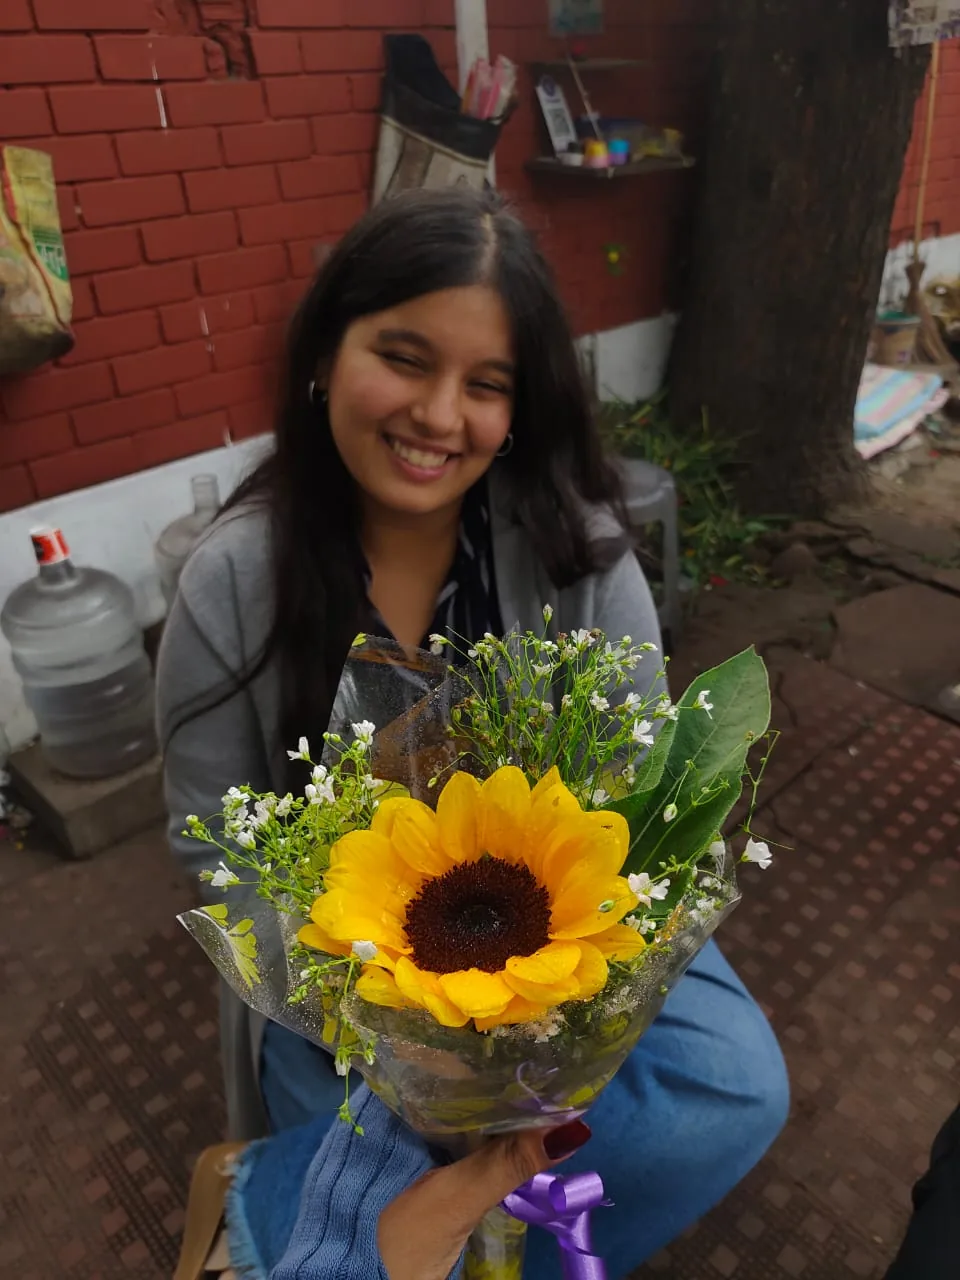
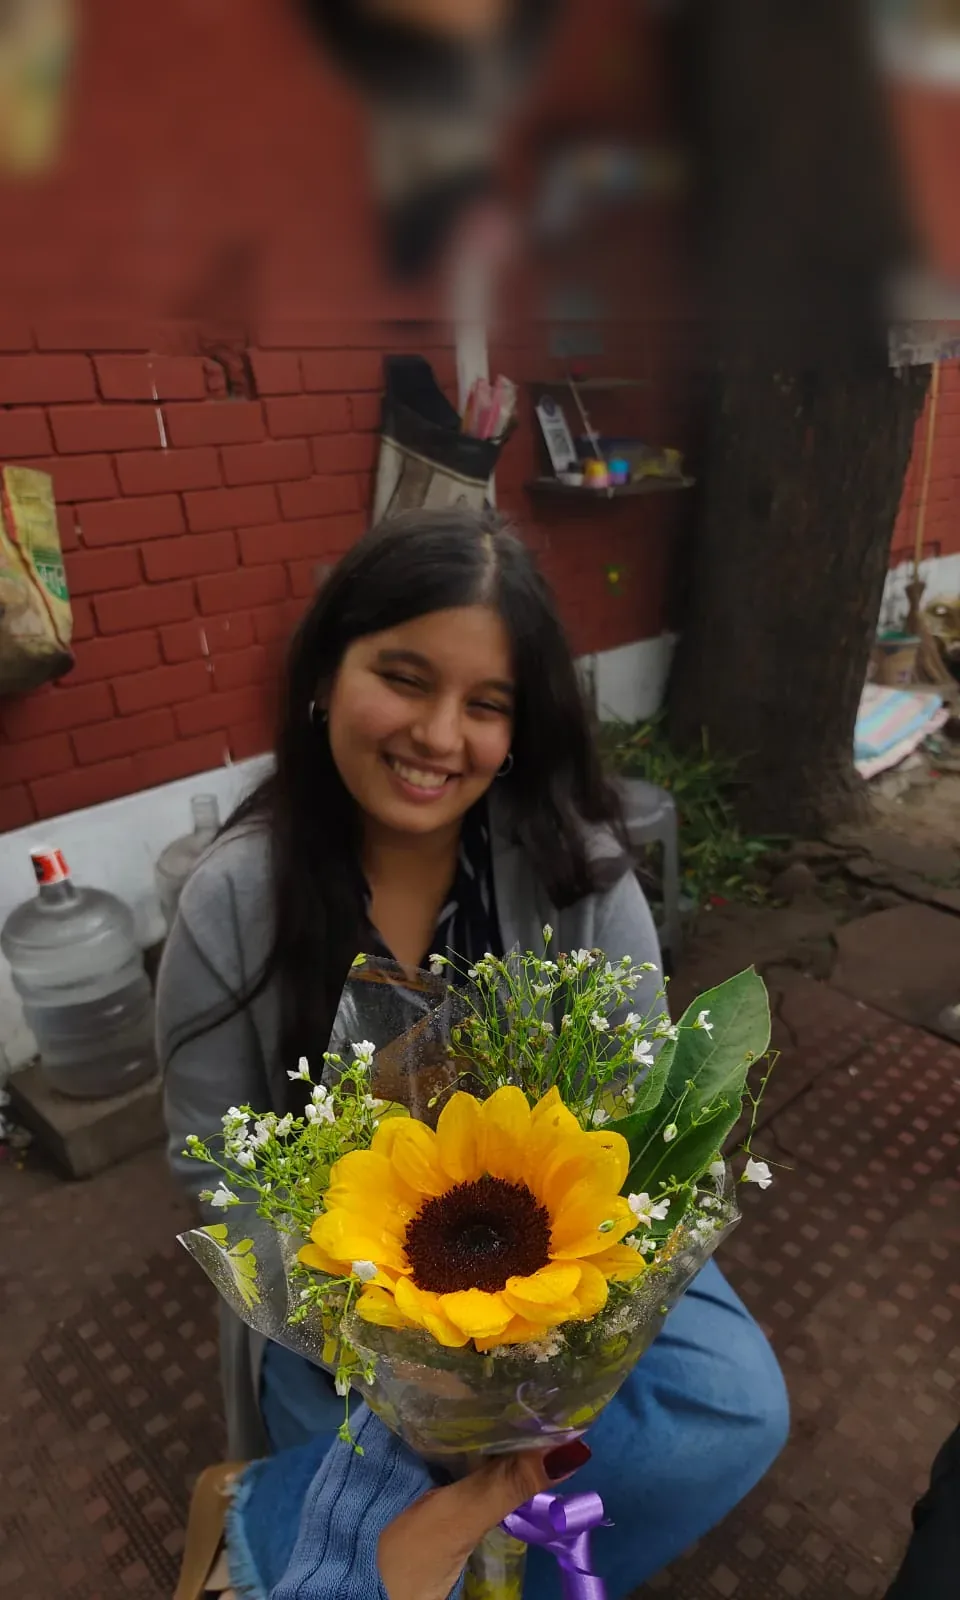
Frame each footer photo per face and add film grain over the photos
Moves every footer photo into one config with its own object-position
(and optional tight crop), reframed so the face stays fully visible below
the punch strip from 1280x600 to 2560x1440. The sunflower photo gains a
softened top band so punched holes never reveal the backdrop. Adds a
static overlay grain on the photos (--noise-photo-opacity), under the
strip, chips and labels, and moves the shared grain texture to a common
folder.

diff --git a/src/components/footer/PunchArea.tsx b/src/components/footer/PunchArea.tsx
@@ -1,29 +1,13 @@
 import { useCallback, useEffect, useLayoutEffect, useRef, useState, type CSSProperties } from 'react';
 import { useMediaQuery } from '../../lib/useMediaQuery';
 import SweepButton from '../chrome/SweepButton';
-import homePhoto from '../../assets/images/footer/me.webp';
-import homePhotoTight from '../../assets/images/footer/me-tight.webp';
+import { FOOTER_PHOTOS, type FooterPhoto } from '../../data/footerPhotos';
 import { PUNCH_SHAPES, PUNCH_SIZE, shapeCursor, shapeScale, shapeViewBox, type PunchShape } from './punchShapes';
 import styles from './PunchArea.module.css';
 
-const PHOTO_WIDTH = 843;
-const PHOTO_HEIGHT = 1124;
-// Head-and-shoulders 3:2 crop of the same photo, for short or very wide
-// desktop screens where the full portrait would push the subject to the
-// edges. Must match the tight-crop media query in PunchArea.module.css.
-const PHOTO_TIGHT_WIDTH = 843;
-const PHOTO_TIGHT_HEIGHT = 562;
+// Short or very wide desktop screens, where a photo's optional tight crop
+// takes over. Must match the tight-crop media query in PunchArea.module.css.
 const PHOTO_TIGHT_MEDIA = '(min-width: 1025px) and (max-height: 760px), (min-width: 1025px) and (min-aspect-ratio: 2/1)';
-
-/* A page's own footer photo, in place of Home's art-directed one. */
-export interface FooterPhoto {
-  src: string;
-  width: number;
-  height: number;
-  alt: string;
-  /* Which part of the photo stays in frame when it's cropped. */
-  align: 'center' | 'bottom';
-}
 
 // Gravity: fall time grows with the square root of the drop distance,
 // clamped so short drops still read as a fall.
@@ -132,9 +116,14 @@ function ChipView({ chip, reducedMotion }: { chip: Chip; reducedMotion: boolean 
 /* Right half of the footer: a black sheet over the photo that visitors
    punch holes in. Each punch drops a brand-colour chip of the same shape onto the
    photo. `keysActive` (when given) decides when ← / → change the shape;
-   otherwise that follows whether the footer is on screen. Without `photo`
-   it shows Home's photo. */
-export default function PunchArea({ keysActive, photo }: { keysActive?: boolean; photo?: FooterPhoto }) {
+   otherwise that follows whether the footer is on screen. */
+export default function PunchArea({
+  keysActive,
+  photo = FOOTER_PHOTOS.home,
+}: {
+  keysActive?: boolean;
+  photo?: FooterPhoto;
+}) {
   const canHover = useMediaQuery(HOVER_QUERY);
   const reducedMotion = useMediaQuery(REDUCED_MOTION_QUERY);
   const rootRef = useRef<HTMLDivElement>(null);
@@ -284,9 +273,23 @@ export default function PunchArea({ keysActive, photo }: { keysActive?: boolean;
 
   return (
     <div ref={rootRef} className={styles.area}>
-      {photo ? (
+      <picture>
+        {photo.tight && (
+          <source
+            media={PHOTO_TIGHT_MEDIA}
+            srcSet={photo.tight.src}
+            width={photo.tight.width}
+            height={photo.tight.height}
+          />
+        )}
         <img
-          className={`${styles.photo} ${photo.align === 'bottom' ? styles.photoBottom : styles.photoCenter}`}
+          className={styles.photo}
+          style={
+            {
+              '--photo-position': photo.position,
+              '--photo-position-tight': photo.tight?.position ?? photo.position,
+            } as CSSProperties
+          }
           src={photo.src}
           alt={photo.alt}
           width={photo.width}
@@ -294,25 +297,9 @@ export default function PunchArea({ keysActive, photo }: { keysActive?: boolean;
           loading="lazy"
           decoding="async"
         />
-      ) : (
-        <picture>
-          <source
-            media={PHOTO_TIGHT_MEDIA}
-            srcSet={homePhotoTight}
-            width={PHOTO_TIGHT_WIDTH}
-            height={PHOTO_TIGHT_HEIGHT}
-          />
-          <img
-            className={styles.photo}
-            src={homePhoto}
-            alt="Sehaz Nagpal"
-            width={PHOTO_WIDTH}
-            height={PHOTO_HEIGHT}
-            loading="lazy"
-            decoding="async"
-          />
-        </picture>
-      )}
+      </picture>
+      {/* Film grain on the photo itself, so punched holes show it too */}
+      <span className={styles.photoGrain} aria-hidden="true" />
 
       <canvas
         ref={canvasRef}

diff --git a/src/data/footerPhotos.ts b/src/data/footerPhotos.ts
@@ -1,29 +1,56 @@
-import type { FooterPhoto } from '../components/footer/PunchArea';
+import me from '../assets/images/footer/me.webp';
+import meTight from '../assets/images/footer/me-tight.webp';
 import sunflower from '../assets/images/footer/sunflower.webp';
 import table from '../assets/images/footer/table.webp';
 import lawn from '../assets/images/footer/lawn.webp';
 
-/* Each case study's footer photo (Home keeps its own). */
+export interface FooterPhoto {
+  src: string;
+  width: number;
+  height: number;
+  alt: string;
+  /* object-position. The top of the photo sits under the punch strip, so
+     each is set to keep the face fully visible below the strip, with a
+     little headroom, at every desktop size (checked 1280x600 to 2560x1440);
+     backgrounds are cropped first. */
+  position: string;
+  /* Optional art-directed crop for short or very wide desktop screens
+     (PHOTO_TIGHT_MEDIA in PunchArea), with its own framing. */
+  tight?: { src: string; width: number; height: number; position: string };
+}
+
+/* Every footer photo: Home's, and one per case study. */
 export const FOOTER_PHOTOS = {
+  home: {
+    src: me,
+    width: 843,
+    height: 1124,
+    alt: 'Sehaz Nagpal',
+    position: '65% 10%',
+    tight: { src: meTight, width: 843, height: 562, position: '55% 30%' },
+  },
+  /* The face sits very high in this photo, so the file carries a softened,
+     mirrored band of the wall above it (top 320px). That band only ever
+     shows through holes punched in the strip, never at rest. */
   drCuterus: {
     src: sunflower,
     width: 960,
-    height: 1280,
+    height: 1600,
     alt: 'Sehaz Nagpal smiling, holding a sunflower bouquet',
-    align: 'center',
+    position: 'center 19%',
   },
   fraud: {
     src: table,
     width: 912,
     height: 2000,
     alt: 'Sehaz Nagpal smiling at a café table',
-    align: 'center',
+    position: 'center 28%',
   },
   moolroop: {
     src: lawn,
     width: 960,
     height: 1280,
     alt: 'Sehaz Nagpal on a campus lawn under a large tree',
-    align: 'bottom',
+    position: 'center bottom',
   },
 } satisfies Record<string, FooterPhoto>;

diff --git a/src/components/footer/PunchArea.module.css b/src/components/footer/PunchArea.module.css
@@ -11,13 +11,27 @@
   background: var(--case-study-white);
 }
 
+/* Framing per photo (FooterPhoto.position, set inline as --photo-position) */
 .photo {
   position: absolute;
   inset: 0;
   width: 100%;
   height: 100%;
   object-fit: cover;
-  object-position: center top;
+  object-position: var(--photo-position);
+}
+
+/* Film grain over the photo, under the strip, chips and labels. Static and
+   click-through; reuses the shared grain texture. */
+.photoGrain {
+  position: absolute;
+  inset: 0;
+  background: url('../../assets/images/grain.png') repeat;
+  /* 128 texels in 64px: one texel per device pixel on 2x screens */
+  background-size: 64px 64px;
+  mix-blend-mode: overlay;
+  opacity: var(--noise-photo-opacity);
+  pointer-events: none;
 }
 
 /* The sheet itself, painted by PunchArea.tsx in --case-study-black. It bleeds
@@ -153,20 +167,13 @@
     border: none;
     background: var(--case-study-black);
   }
-
-  /* Focal point on head and shoulders (about 30-60% down the photo), kept
-     just under the strip at every desktop size; the trees above go first. */
-  .photo {
-    object-position: 65% 10%;
-  }
 }
 
-/* Tight head-and-shoulders crop (PHOTO_TIGHT_MEDIA in PunchArea.tsx): the
-   head sits about 30% down the crop, just under the strip, in the
-   upper-middle of the visible photo. */
+/* Short or very wide desktop screens (PHOTO_TIGHT_MEDIA in PunchArea.tsx):
+   a photo's tight crop and its framing, when it has one. */
 @media (min-width: 1025px) and (max-height: 760px), (min-width: 1025px) and (min-aspect-ratio: 2/1) {
   .photo {
-    object-position: 55% 30%;
+    object-position: var(--photo-position-tight);
   }
 }
 
@@ -188,14 +195,4 @@
     padding: calc(2 * var(--u)) calc(8 * var(--u));
     font-size: calc(16 * var(--u));
   }
-}
-
-/* A page's own photo (FooterPhoto.align) at every size. Doubled class so it
-   outranks the Home photo's media-query focal points above. */
-.photo.photoCenter {
-  object-position: center center;
-}
-
-.photo.photoBottom {
-  object-position: center bottom;
 }

diff --git a/src/components/caseStudy/CaseStudyLayout.tsx b/src/components/caseStudy/CaseStudyLayout.tsx
@@ -4,7 +4,7 @@ import SiteNav from '../nav/SiteNav';
 import ReadingProgress from '../article/ReadingProgress';
 import AboutPanel from '../about/AboutPanel';
 import Footer from '../footer/Footer';
-import type { FooterPhoto } from '../footer/PunchArea';
+import type { FooterPhoto } from '../../data/footerPhotos';
 import type { LinkSection } from '../../data/siteLinks';
 import styles from './CaseStudyLayout.module.css';
 

diff --git a/src/components/playground/items/grain.module.css b/src/components/playground/items/grain.module.css
@@ -16,7 +16,7 @@
   inset: 0;
   z-index: -1;
   border-radius: inherit;
-  background: url('../../../assets/images/playground/grain.png') repeat;
+  background: url('../../../assets/images/grain.png') repeat;
   /* 128 texels in 64px: one texel per device pixel on 2x screens. Smooth
      sampling, so it averages rather than aliasing when scaled. */
   background-size: 64px 64px;

diff --git a/src/components/footer/Footer.tsx b/src/components/footer/Footer.tsx
@@ -1,6 +1,7 @@
 import { SITE_LINK_GROUPS, type LinkSection } from '../../data/siteLinks';
 import SiteLink from '../chrome/SiteLink';
-import PunchArea, { type FooterPhoto } from './PunchArea';
+import PunchArea from './PunchArea';
+import type { FooterPhoto } from '../../data/footerPhotos';
 import styles from './Footer.module.css';
 
 interface FooterProps {

diff --git a/src/styles/tokens.css b/src/styles/tokens.css
@@ -53,6 +53,8 @@
 
   /* Footer punch chips */
   --chip-shadow: 0 4px 6px rgba(18, 18, 18, 0.25);
+  /* Film grain over the footer photos (separate from the playground's) */
+  --noise-photo-opacity: 0.1;
 
   /* Fixed Home nav: height of its row (the wordmark's line), reserved by a
      spacer at the top of each section */
